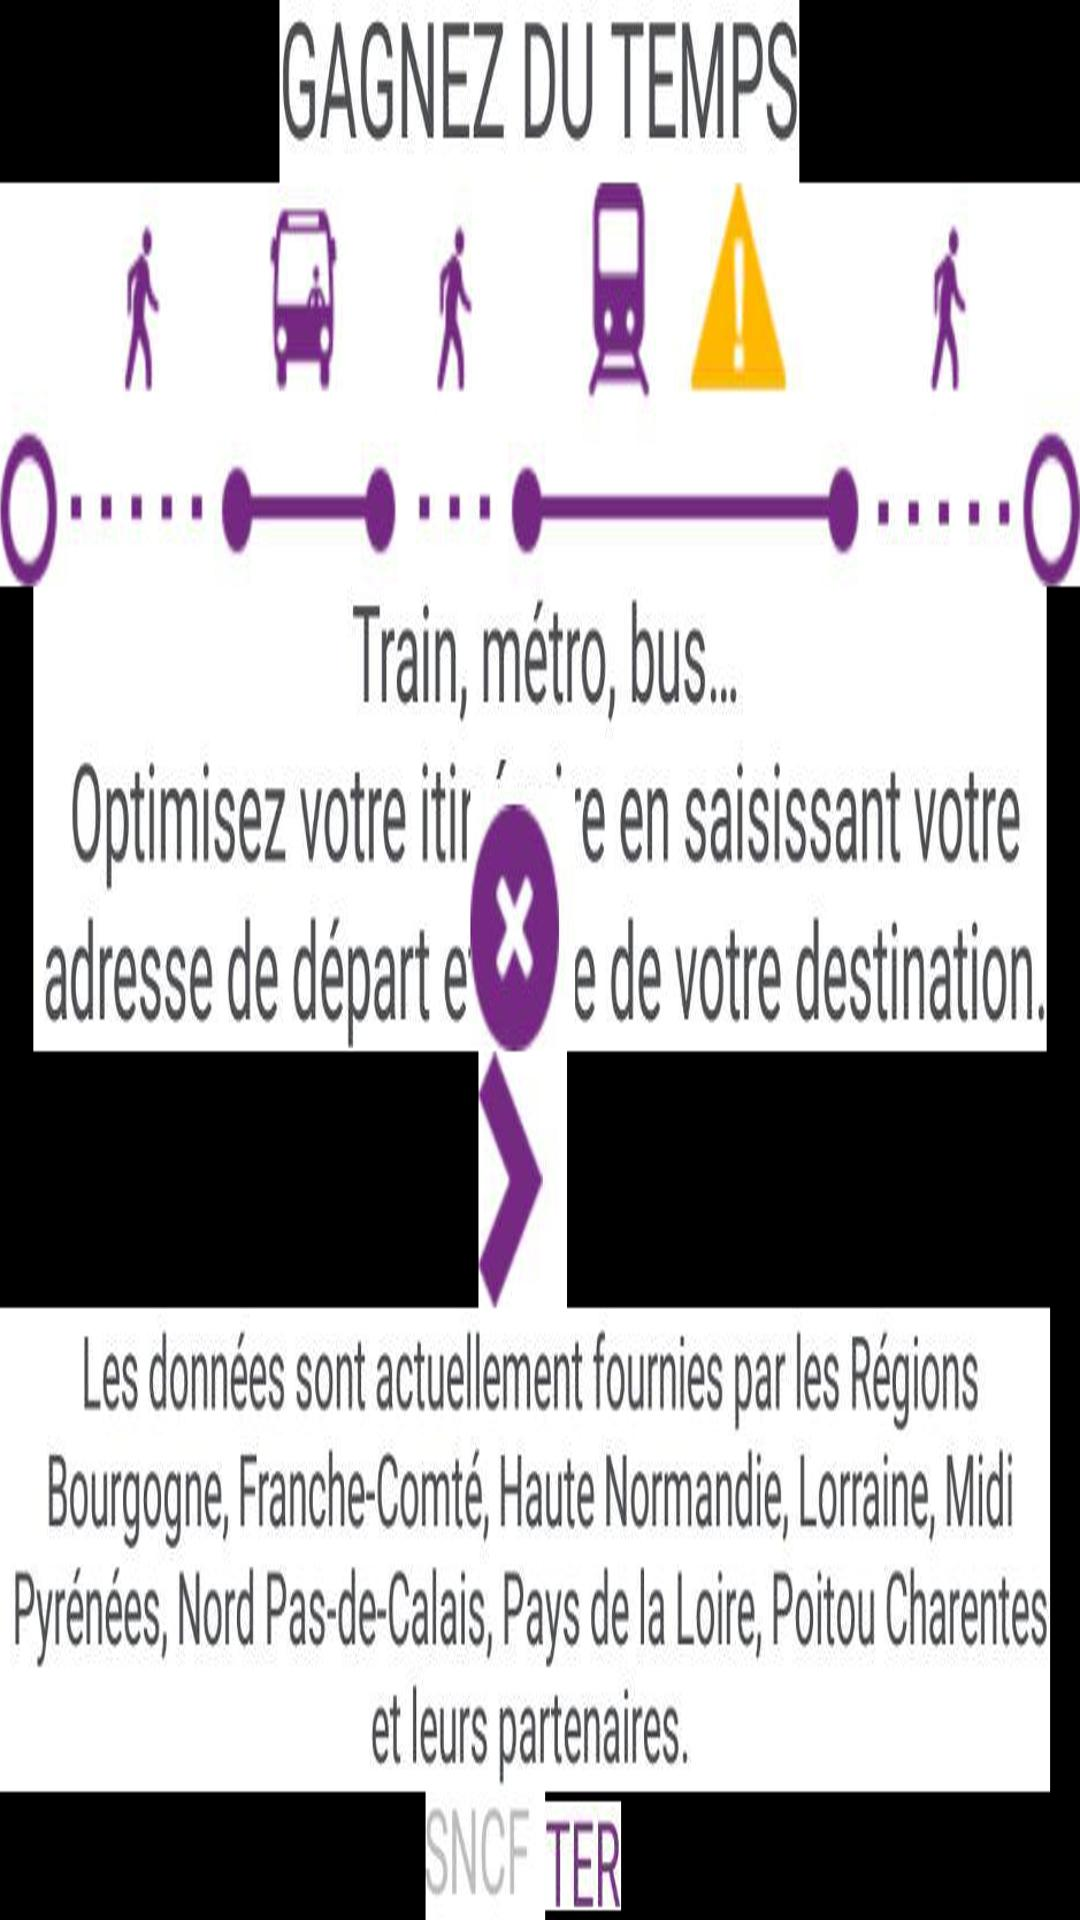
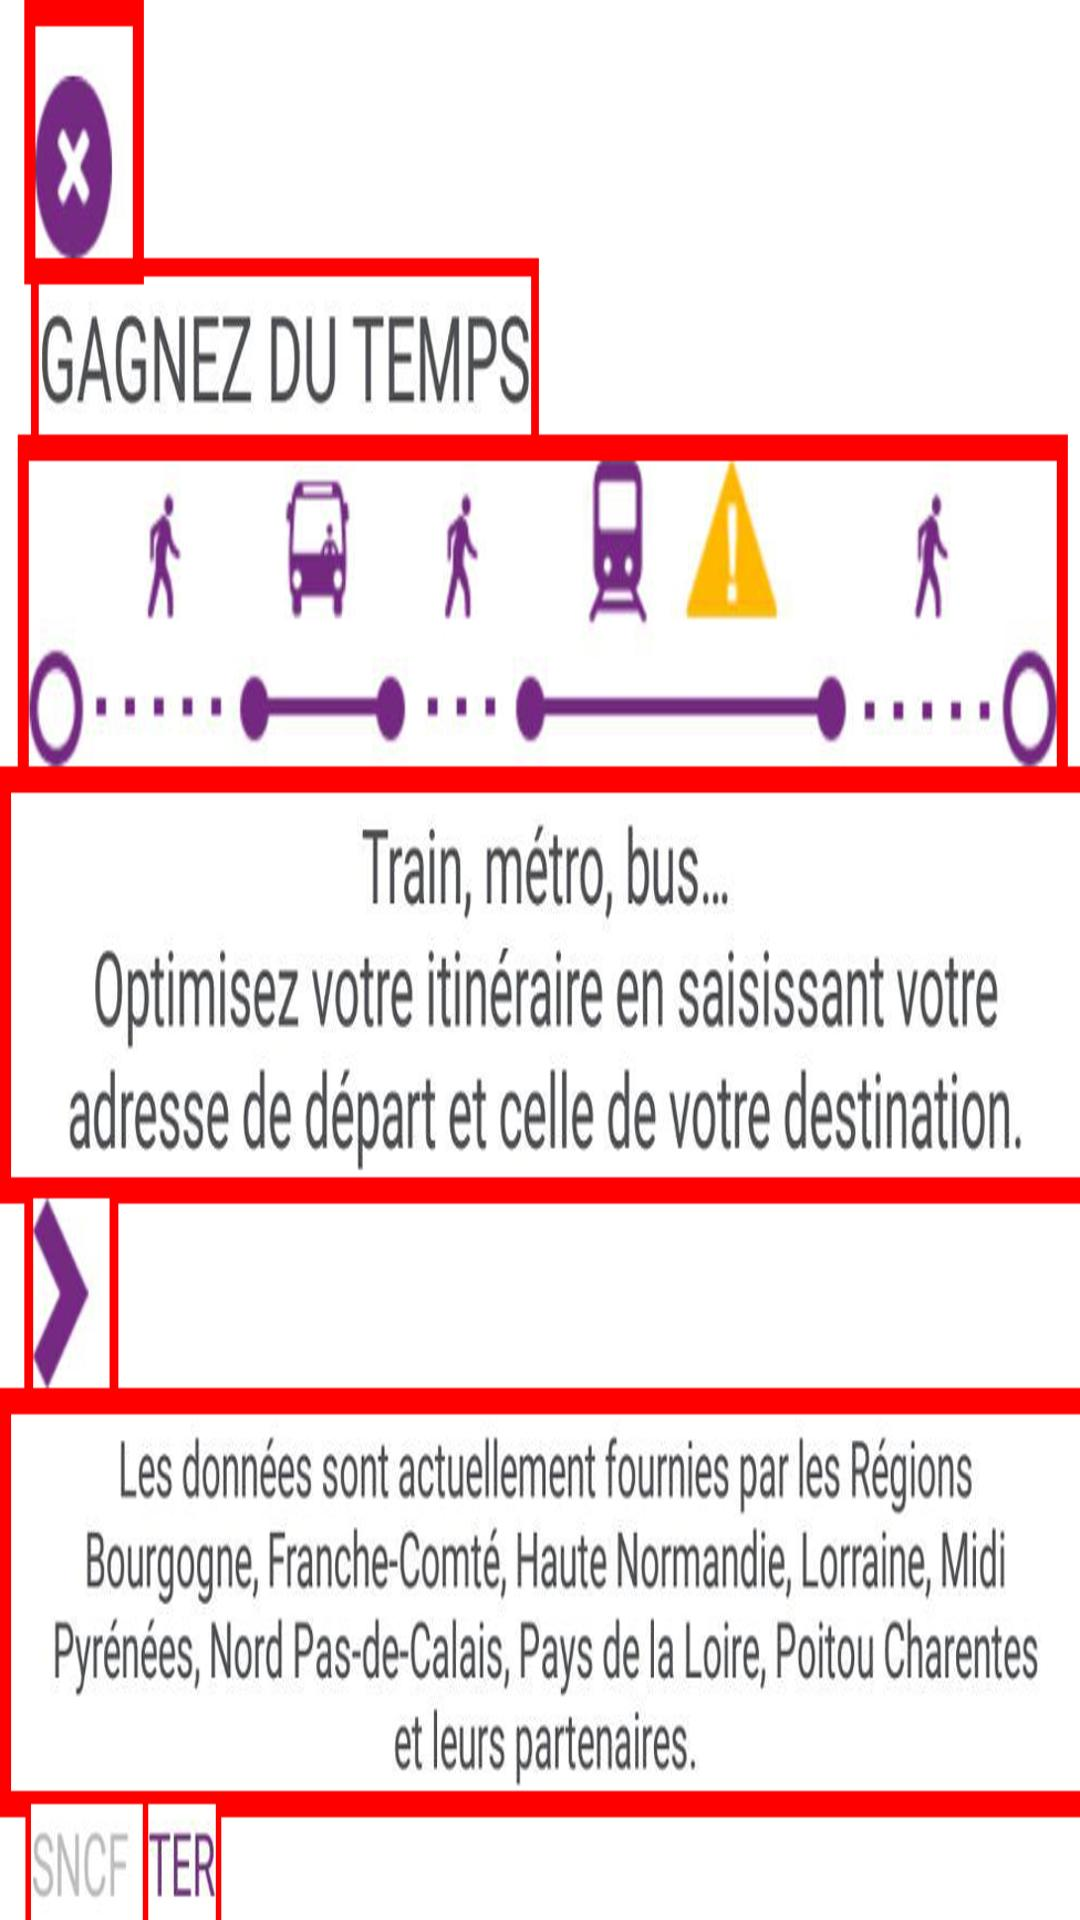
duct tape fix, fisheye effect visible with black circle around the distorted region

diff --git a/fisheye_custom.py b/fisheye_custom.py
@@ -1,4 +1,3 @@
-from cmath import sin
 import concurrent.futures
 import enum
 from hashlib import new
@@ -9,7 +8,6 @@ import math
 from pathlib import Path
 
 import cv2 
-import hydra
 import numpy as np
 import scipy.interpolate
 from sklearn import neighbors
@@ -40,14 +38,26 @@ def get_euclidean_distance( x0, y0, x1, y1 ):
     return math.sqrt( (x1-x0)**2 + (y1-y0)**2 )
 
 
-def gaussian_drop_off(dist, MM, fisheye_rad):
+
+
+def gaussian_lift_up(dist, MM, fisheye_rad):
     
-    drop_off = 1 - 0.6 * pow( math.sin( (dist/fisheye_rad) * (3.1416/2) ), 1 )
+    lift_up = 0.1 * pow( math.sin( (dist/fisheye_rad) * (3.1416/2) ), 1 )
 
     # print(drop_off)
 
-    drop_off = drop_off * MM
+    lift_up = lift_up * ( MM - 1) + 1
 
+    return lift_up
+
+
+def gaussian_drop_off(dist, MM, fisheye_rad):
+    
+    drop_off = 1 - 0.3 * pow( math.sin( (dist/fisheye_rad) * (3.1416/2) ), 1 )
+
+    # print(drop_off)
+
+    drop_off = drop_off * ( MM - 1) + 1
 
     return drop_off
 
@@ -80,8 +90,38 @@ def apply_fisheye(imgfile, fisheye_center, inner_fisheye_radius, outer_fisheye_r
 
             if( distance_from_center <= inner_fisheye_radius):
                 # print( distance_from_center, " -> inside the focus" )
-                new_position = [ x_c + ( x - x_c ) / MM, 
-                                 y_c + ( y - y_c ) / MM  ]
+                
+                # new_position = [ x_c + (( x - x_c ) / 1), 
+                #                  y_c + (( y - y_c ) / 1)  ]
+
+                # transformed = [ round( new_position[0] ), round( new_position[1] ) ]       
+
+                # # print( [x, y] ,"   ", transformed)     
+
+                # if ( str( transformed ) in new_to_old_map.keys() ):
+                #             new_to_old_map[ str( transformed ) ].append([ x, y ])
+                # else:
+                #      new_to_old_map[ str( transformed ) ] = [ [ x, y ] ]  
+                
+                         
+                # new_to_old_map[ str( [ x, y ] ) ] = [ [ x, y ] ] 
+                
+                # lift_up = gaussian_lift_up(distance_from_center, MM, inner_fisheye_radius )    
+                # new_position = [ x_c + ( x - x_c ) / lift_up, 
+                #                  y_c + ( y - y_c ) / lift_up  ]
+
+                # transformed = [ round( new_position[0] ), round( new_position[1] ) ]       
+
+                # # print( [x, y] ,"   ", transformed)     
+
+                # if ( str( transformed ) in new_to_old_map.keys() ):
+                #             new_to_old_map[ str( transformed ) ].append([ x, y ])
+                # else:
+                #      new_to_old_map[ str( transformed ) ] = [ [ x, y ] ]    
+                
+                drop_off = gaussian_drop_off(distance_from_center, MM, inner_fisheye_radius )    
+                new_position = [ x_c + ( x - x_c ) / drop_off, 
+                                 y_c + ( y - y_c ) / drop_off  ]
 
                 transformed = [ round( new_position[0] ), round( new_position[1] ) ]       
 
@@ -90,21 +130,21 @@ def apply_fisheye(imgfile, fisheye_center, inner_fisheye_radius, outer_fisheye_r
                 if ( str( transformed ) in new_to_old_map.keys() ):
                             new_to_old_map[ str( transformed ) ].append([ x, y ])
                 else:
-                     new_to_old_map[ str( transformed ) ] = [ [ x, y ] ]           
-
+                     new_to_old_map[ str( transformed ) ] = [ [ x, y ] ]     
+                
 
 
             elif( distance_from_center > inner_fisheye_radius and distance_from_center < outer_fisheye_radius ):
                 # print( distance_from_center, " -> distortion region" )
                 # continue
  
-                drop_off = gaussian_drop_off(distance_from_center, MM, inner_fisheye_radius)    
+                drop_off = gaussian_drop_off(distance_from_center, MM, inner_fisheye_radius )    
                 new_position = [ x_c + ( x - x_c ) / drop_off, 
                                  y_c + ( y - y_c ) / drop_off  ]
 
                 transformed = [ round( new_position[0] ), round( new_position[1] ) ]       
 
-                print( [x, y] ,"   ", transformed)     
+                # print( [x, y] ,"   ", transformed)     
 
                 if ( str( transformed ) in new_to_old_map.keys() ):
                             new_to_old_map[ str( transformed ) ].append([ x, y ])
@@ -115,7 +155,8 @@ def apply_fisheye(imgfile, fisheye_center, inner_fisheye_radius, outer_fisheye_r
 
             elif( distance_from_center >= outer_fisheye_radius ):
                 # print( "no change region (context region)" )      
-                continue
+                # continue
+                new_to_old_map[ str( [ x, y ] ) ] = [ [ x, y ] ] 
 
     # print(new_to_old_map)
 
@@ -160,7 +201,7 @@ def apply_fisheye(imgfile, fisheye_center, inner_fisheye_radius, outer_fisheye_r
 
 
 
-apply_fisheye("output.jpg", (540, 960), 200, 300, 1.25)
+apply_fisheye("Output.jpg", (540, 960), 100, 250, 1.1)
 
 
 # print(json.loads('[2, 3]'))

diff --git a/v2_fisheye_custom.py b/v2_fisheye_custom.py
@@ -1,0 +1,129 @@
+from cmath import sin
+import concurrent.futures
+import enum
+from hashlib import new
+import itertools
+import json
+import logging
+import math
+from pathlib import Path
+
+import cv2 
+import numpy as np
+import scipy.interpolate
+from sklearn import neighbors
+import tifffile
+from omegaconf import OmegaConf, DictConfig
+from tqdm import tqdm
+
+from operator import index
+from textwrap import indent
+from matplotlib import image
+import numpy as np
+import matplotlib.pyplot as plt
+from gekko import GEKKO
+from urllib3 import Retry
+from PIL import Image, ImageOps
+import pickle
+
+import os
+import glob
+
+import json
+from operator import index, inv
+import collections
+
+
+D = 1.46
+
+def get_euclidean_distance( x0, y0, x1, y1 ):
+    return math.sqrt( (x1-x0)**2 + (y1-y0)**2 )
+
+
+
+def G(x):
+    # print(x)
+    num = (D+1)*x
+    denom = D*x + 1
+    
+    return num*1.0/denom
+
+
+def apply_fisheye(imgfile, fisheye_center, inner_fisheye_radius, outer_fisheye_radius, MM):
+
+    img = Image.open(imgfile)
+    dim_x, dim_y = img.size
+
+    img_pixels = img.load()
+
+    x_c, y_c = fisheye_center[0], fisheye_center[1]
+
+    ## loop through all the pixels
+    ## each pixel gets one of the three possible transformations
+    ## i) pixels in the focus get magnified
+    ## ii) pixels outside the focus, i.e., in the context do not change
+    ## iii) pixels in the transition gets noisy and distorted
+
+    new_to_old_map = {}
+
+
+    for x in range(dim_x):
+        for y in range(dim_y):
+            
+            d_norm_x = x - x_c
+            d_norm_y = y - y_c
+            
+            d_max_x = x_c
+            d_max_y = y_c
+            
+            transformed = [G( d_norm_x/d_max_x ) * d_max_x + x_c,
+                           G( d_norm_y/d_max_y ) * d_max_y + y_c]
+            
+            # print("   ",[x, y], "   ", transformed)
+
+
+    new_img = img.copy()
+
+    for i in range(dim_x):
+        for j in range(dim_y):
+            new_img.putpixel( (i, j), (0, 0, 0))
+
+    ## if MM > 1:
+
+    for key in new_to_old_map.keys():
+        new_coordinate = json.loads(key)
+
+        old_coordinate_list = new_to_old_map[key]
+
+        old_coordinate_bitmaps = []
+
+        for item in old_coordinate_list:
+            old_coordinate_bitmaps.append( img_pixels[ item[0], item[1] ] )
+
+
+        r = 0
+        g = 0
+        b = 0
+
+        for item in old_coordinate_bitmaps:
+            r += item[0]
+            g += item[1]
+            b += item[2]
+
+        r = round ( r / len( old_coordinate_bitmaps ) )
+        g = round ( g / len( old_coordinate_bitmaps ) )  
+        b = round ( b / len( old_coordinate_bitmaps ) )    
+
+        new_img.putpixel( (new_coordinate[0], new_coordinate[1] ), (r, g, b) )
+
+
+    new_img.save('fisheye_output.jpg')
+
+
+
+
+
+apply_fisheye("Output.jpg", (540, 960), 250, 350, 2)
+
+
+# print(json.loads('[2, 3]'))

diff --git a/space_optimize.py b/space_optimize.py
@@ -623,7 +623,7 @@ final_output = final_output.crop( ( index_to_coordinates[0][0] , index_to_coordi
 
 final_output = final_output.resize( (input_img_dim_x, input_img_dim_y) )
 
-final_output.save('output.jpg')
+final_output.save('Output.jpg')
 
 
 
